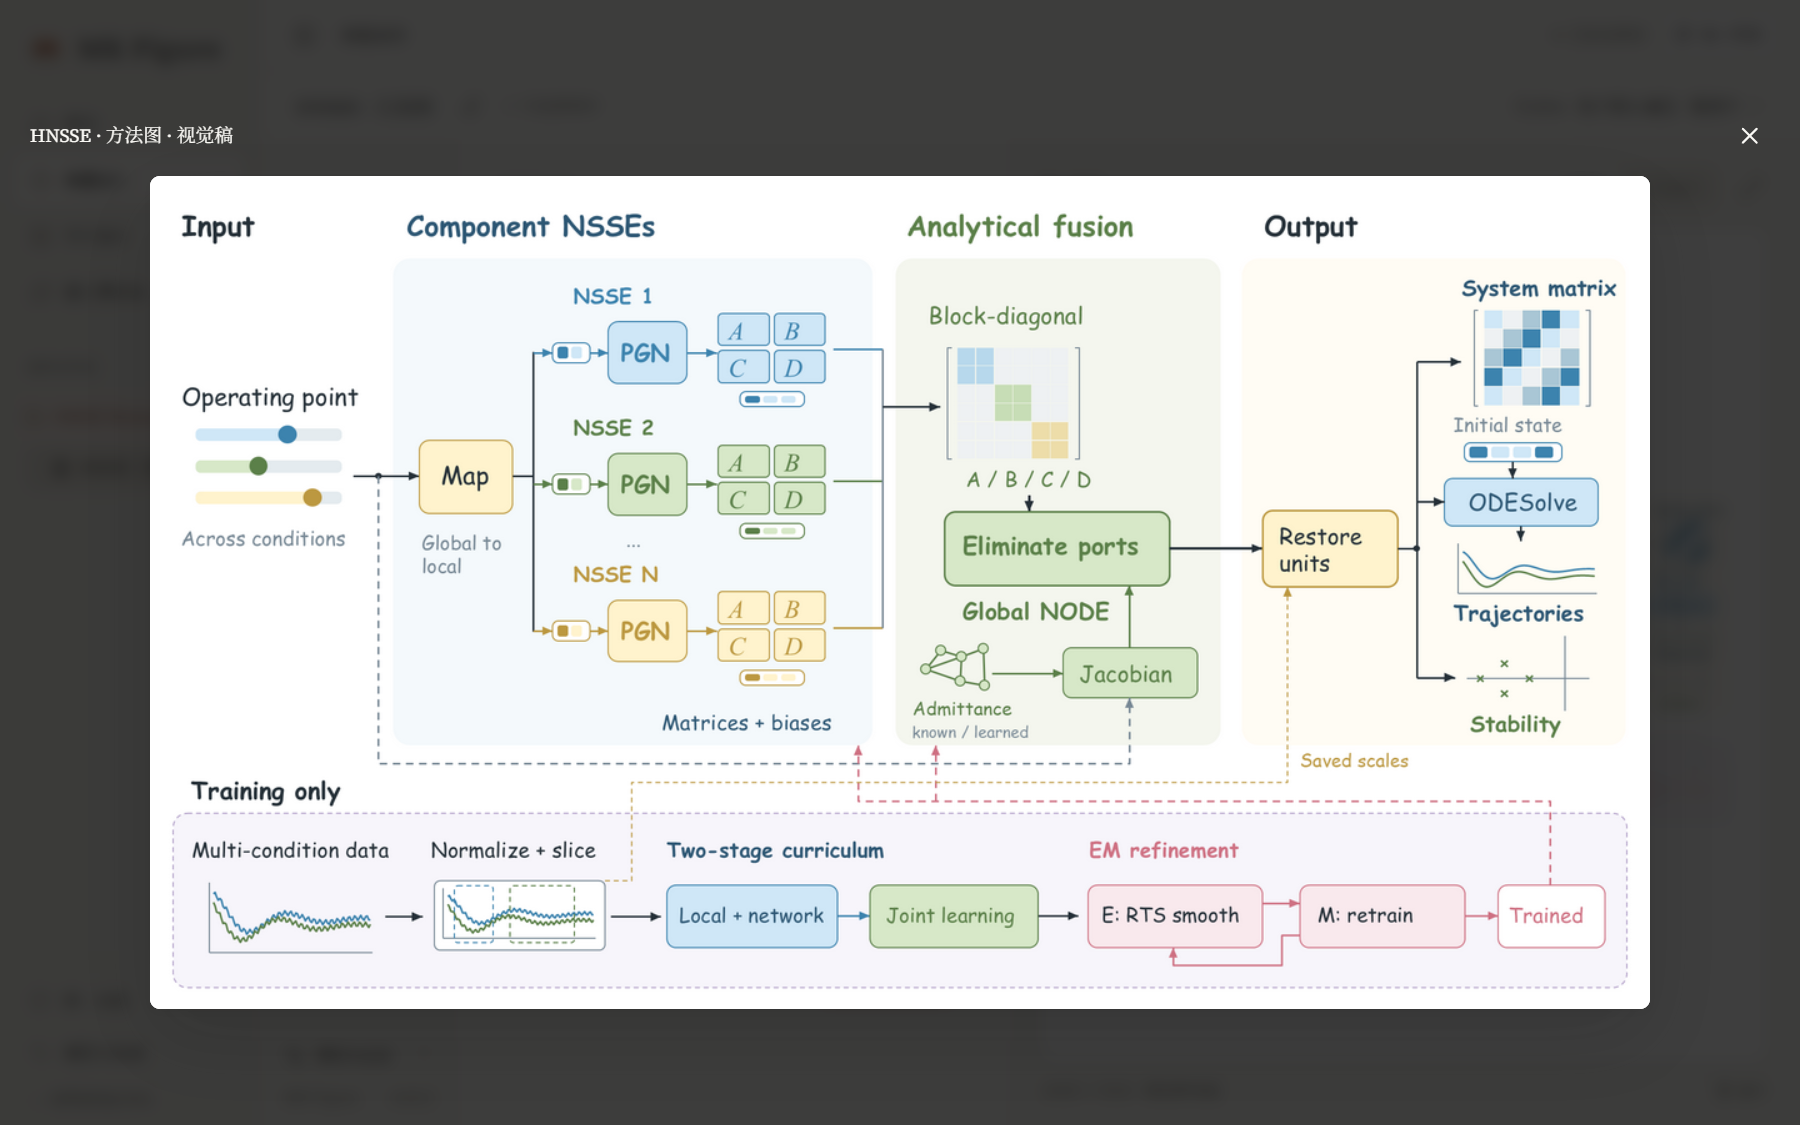
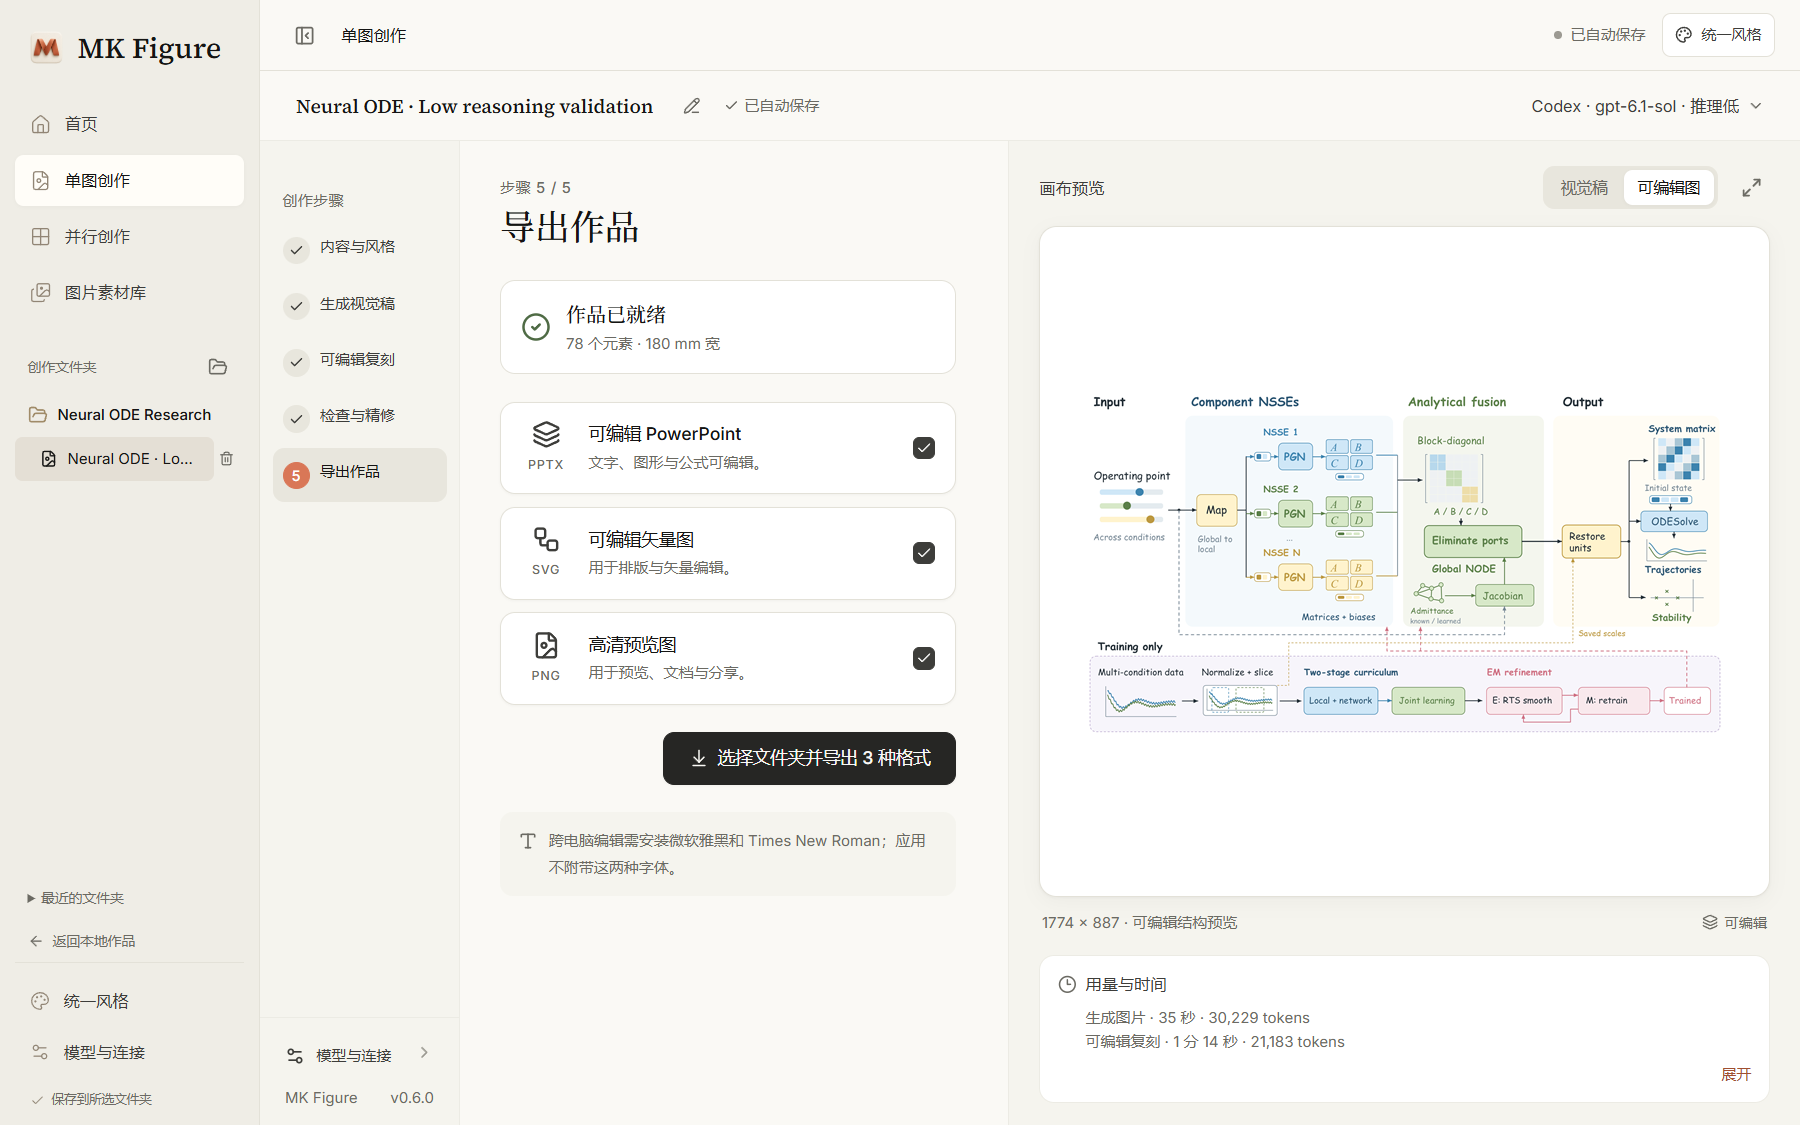
docs: replace only the artwork inside the export screenshot

diff --git a/docs/assets/README.md b/docs/assets/README.md
@@ -1,6 +1,6 @@
 # 仓库首页截图
 
-以下 PNG 均来自 MK Figure 实际 Windows 程序截图，未合成或重绘界面。除 HNSSE 方法图预览使用 0.6.2 外，其余截图使用 0.6.0；具体来源见下表。
+基础截图来自 MK Figure 0.6.0 实际 Windows 程序。`hnsse-method-preview.png` 为局部替换画布内容的展示合成图，其余截图未经合成或重绘；具体来源见下表。
 
 | 文件 | 来源 | 说明 |
 | --- | --- | --- |
@@ -9,6 +9,6 @@
 | `shared-style.png` | `output/workspace/0.6.0/packaged/05-shared-style.png` | 公共风格设置。 |
 | `folder-workspace.png` | `output/workspace/0.6.0/packaged/07-single-folder.png` | 测试文件夹中的单图工作区。 |
 | `editable-export.png` | `output/workspace/0.6.0/live/09-packaged-result.png` | GPT-6.1 Sol 低推理真实流程产生的 Neural ODE 可编辑结果。 |
-| `hnsse-method-preview.png` | 0.6.2 Windows 程序的“放大预览”，2026-10-19 截取 | 作者提供的 `HNSSE_方法图_v1.pptx` 第一页经 PowerPoint 导出为 2400 × 1333 PNG，通过真实图片导入接口载入工作台。仅展示既有视觉稿，未调用模型生成或复刻。 |
+| `hnsse-method-preview.png` | 在 `editable-export.png` 的右侧画布内替换科研图，2026-10-19 | 作者提供的 `HNSSE_方法图_v1.pptx` 第一页经 PowerPoint 导出，再等比例嵌入原截图的 `(1080, 380, 650, 361)` 像素区域。画布替换区域外像素完全不变；项目名称、元素数量、运行数据仍属于原 Neural ODE 示例，不代表 HNSSE 的生成、复刻或导出验证。 |
 
 测试范围见 [0.6.0 验证记录](../validation-0.6.0.md)，截图中的参考素材来源见 [provenance.md](../../resources/library/provenance.md)。截图不包含登录凭据或用户研究文件路径。

diff --git a/README.md b/README.md
@@ -93,13 +93,13 @@
       <br><sub>文件夹工作区：资料与创作过程一起保留</sub>
     </td>
     <td width="50%" align="center">
-      <img src="docs/assets/hnsse-method-preview.png" alt="HNSSE 方法图在 MK Figure 中的放大视觉稿预览">
-      <br><sub>方法图预览：HNSSE 组件建模与解析融合</sub>
+      <img src="docs/assets/hnsse-method-preview.png" alt="保留原导出界面、在画布内替换为 HNSSE 方法图的展示示意">
+      <br><sub>导出界面：HNSSE 方法图展示</sub>
     </td>
   </tr>
 </table>
 
-前三张截图来自 0.6.0 Windows 程序；HNSSE 方法图截图来自 0.6.2 Windows 程序，展示作者提供的 PPT 经 PowerPoint 渲染后载入工作台的放大视觉稿，不代表此次完成了模型生成或可编辑复刻。此前 Neural ODE 示例的生成、复刻、导出及 PowerPoint 编辑验证范围见[验证记录](docs/validation-0.6.0.md)。
+界面截图来自 0.6.0 Windows 程序。右下图为展示合成图，仅将原截图画布中的科研图替换为作者提供的 HNSSE 方法图，保留其余界面；其中项目名称、元素数量及运行数据仍属于原 Neural ODE 示例。真实生成、复刻、导出及 PowerPoint 编辑验证范围见[验证记录](docs/validation-0.6.0.md)。
 
 ## 快速开始
 
